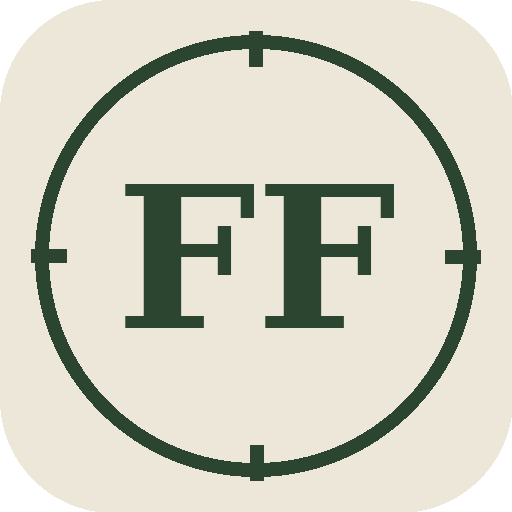
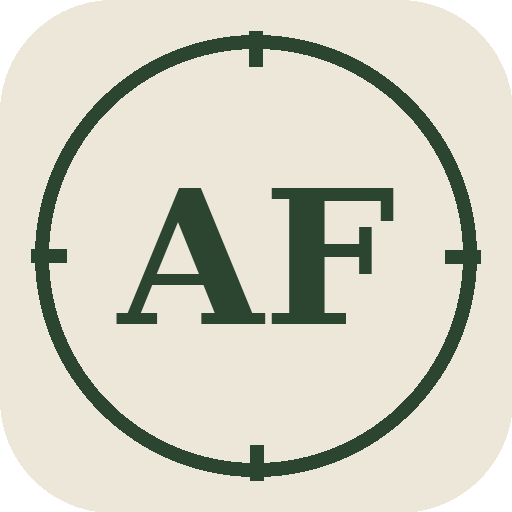
Add files via upload

diff --git a/index.html b/index.html
@@ -3,13 +3,13 @@
 <head>
 <meta charset="utf-8">
 <meta name="viewport" content="width=device-width, initial-scale=1">
-<title>Feldführer Argumentationsformen</title>
+<title>Argumentationsführer</title>
 <meta name="description" content="Glossar von Fehlschlüssen und starken, nicht-zwingenden Argumentationsformen für die Beurteilung von Erörterungsaufsätzen.">
 <meta name="theme-color" content="#3e5c43">
 <meta name="mobile-web-app-capable" content="yes">
 <meta name="apple-mobile-web-app-capable" content="yes">
 <meta name="apple-mobile-web-app-status-bar-style" content="default">
-<meta name="apple-mobile-web-app-title" content="Feldführer">
+<meta name="apple-mobile-web-app-title" content="Argu-führer">
 <link rel="manifest" href="manifest.json">
 <link rel="icon" href="icon-192.png" sizes="192x192" type="image/png">
 <link rel="apple-touch-icon" href="icon-512.png">
@@ -120,20 +120,20 @@
 
   .mobile-tools{ display:none; }
 
-  .glossary-grid{ display:grid; grid-template-columns:repeat(auto-fill,minmax(270px,1fr)); gap:16px; }
-  .card{ background:var(--surface); border:1px solid var(--line); border-radius:11px; padding:16px 18px 18px; display:flex; flex-direction:column; gap:9px; box-shadow:var(--shadow); scroll-margin-top:24px; }
+  .glossary-grid{ display:grid; grid-template-columns:1fr; gap:18px; max-width:640px; }
+  .card{ background:var(--surface); border:1px solid var(--line); border-radius:11px; padding:18px 20px 20px; display:flex; flex-direction:column; gap:10px; box-shadow:var(--shadow); scroll-margin-top:24px; }
   .card.flash{ outline:2px solid var(--accent); outline-offset:2px; }
   .card-top{ display:flex; justify-content:space-between; align-items:center; gap:8px; }
-  .cat-no{ font-family:var(--font-mono); font-size:.68rem; letter-spacing:.05em; color:var(--ink-soft); }
-  .fam-tag{ font-family:var(--font-mono); font-size:.62rem; text-transform:uppercase; letter-spacing:.05em; padding:3px 8px; border-radius:999px; color:var(--accent-contrast); background:var(--fam-color); white-space:nowrap; }
-  .term{ font-family:var(--font-display); font-style:italic; font-size:1.2rem; font-weight:700; line-height:1.25; }
-  .sub{ font-size:.86rem; color:var(--ink-soft); margin-top:-4px; }
-  .mark{ font-size:.83rem; font-style:italic; color:var(--accent-strong); border-left:2px solid var(--fam-color); padding-left:9px; }
-  .def{ font-size:.92rem; line-height:1.5; }
-  .example{ background:var(--surface-2); border-radius:7px; padding:9px 11px; font-size:.85rem; font-style:italic; }
+  .cat-no{ font-family:var(--font-mono); font-size:.74rem; letter-spacing:.05em; color:var(--ink-soft); }
+  .fam-tag{ font-family:var(--font-mono); font-size:.68rem; text-transform:uppercase; letter-spacing:.05em; padding:3px 9px; border-radius:999px; color:var(--accent-contrast); background:var(--fam-color); white-space:nowrap; }
+  .term{ font-family:var(--font-display); font-style:italic; font-size:1.35rem; font-weight:700; line-height:1.25; }
+  .sub{ font-size:.95rem; color:var(--ink-soft); margin-top:-4px; }
+  .mark{ font-size:.92rem; font-style:italic; color:var(--accent-strong); border-left:2px solid var(--fam-color); padding-left:10px; }
+  .def{ font-size:1.02rem; line-height:1.55; }
+  .example{ background:var(--surface-2); border-radius:7px; padding:10px 12px; font-size:.96rem; font-style:italic; }
   .example::before{ content:"„"; font-style:normal; }
   .example::after{ content:"“"; font-style:normal; }
-  .related{ font-size:.76rem; color:var(--ink-soft); }
+  .related{ font-size:.85rem; color:var(--ink-soft); }
   .related .inline-link{ background:none; border:none; padding:0; font:inherit; font-weight:700; color:var(--accent-strong); text-decoration:underline; text-underline-offset:2px; cursor:pointer; }
   .empty-state{ color:var(--ink-soft); font-size:.9rem; padding:30px 4px; }
 
@@ -155,9 +155,9 @@
 <div class="shell">
   <nav class="spine">
     <div class="brand">
-      <div class="brand-mark" aria-hidden="true">FF</div>
+      <div class="brand-mark" aria-hidden="true">AF</div>
       <div class="brand-text">
-        <div class="title">Feldführer</div>
+        <div class="title">Argumentationsführer</div>
         <div class="subtitle">Fehlschlüsse &amp; starke Argumente</div>
       </div>
     </div>

diff --git a/sw.js b/sw.js
@@ -1,7 +1,7 @@
-// Feldführer Argumentationsformen — Offline-Cache
-// Versionsnummer beim nächsten Update erhöhen (z. B. "ffv2"), damit
+// Argumentationsführer — Offline-Cache
+// Versionsnummer bei jedem inhaltlichen Update erhöhen (z. B. "v3"), damit
 // installierte Geräte die neue Fassung laden statt der alten aus dem Cache.
-const CACHE_NAME = "feldfuehrer-v1";
+const CACHE_NAME = "argumentationsfuehrer-v2";
 const PRECACHE_URLS = [
   "./",
   "./index.html",
